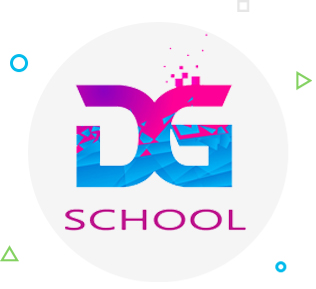
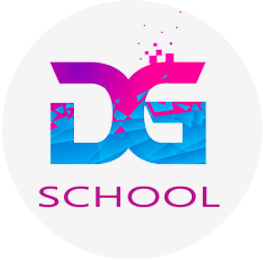
updated

diff --git a/content/templates/Lists/DemoContent.html b/content/templates/Lists/DemoContent.html
@@ -4,9 +4,26 @@
     <link href="{% static 'css/base.css' %}"/>
     <div class="container">
         <br>
-        <h6>If You Are A Teacher <a class ="btn btn-primary" href="{% url 'visited_Teachers_create' %}">Click Here</a></h6>
-        <h6>If You Own A School <a class ="btn btn-primary" href="{% url 'visited_Schools_create' %}">Click Here</a></h6>
-        <h6>If You Are A Parent <a class ="btn btn-primary" href="{% url 'visited_Parents_create' %}">Click Here</a></h6>
+        <table>
+            <thead>
+                <tr>
+                    <td style="width: 70%;">* If You Are A Teacher</td>
+                    <td><a class ="btn btn-primary" href="{% url 'visited_Teachers_create' %}">Click Here</a></td>
+                </tr>
+                <tr>
+                    <td>* If You Are A School Owner</td>
+                    <td><a class ="btn btn-primary" href="{% url 'visited_Schools_create' %}">Click Here</a></td>
+                </tr>
+                <tr>
+                    <td>* If You Are A Parent</td>
+                    <td><a class ="btn btn-primary" href="{% url 'visited_Parents_create' %}">Click Here</a></td>
+                </tr>
+            </thead>
+        </table>
+        <br>
+        <h6></h6>
+        <h6></h6>
+        <h6></h6>
         <h2 class="text-center" style="font-family:sans-serif;">All Periods Of {{ date }}</h2><hr/>
         {% for i in content %}
             <h4 class="text-center" style="font-family:sans-serif;">Class = {{ i.class }}</h4>
@@ -19,13 +36,13 @@
                     </tr>
                 </thead>
                 {% for i in i.content %}
-                <tbody id="myTable" align="center">
-                    <tr>
-                        <td><a href="{% url 'content' i.pk %}">Period = {{ i.period }}</a></td>
-                        <td>{{ i.subject }}</td>
-                        <td>{{ i.module }}</td>
-                    </tr>
-                </tbody>
+                    <tbody id="myTable" align="center">
+                        <tr>
+                            <td><a href="{% url 'content' i.pk %}">Period = {{ i.period }}</a></td>
+                            <td>{{ i.subject }}</td>
+                            <td>{{ i.module }}</td>
+                        </tr>
+                    </tbody>
                 {% endfor %}
             </table>
         {% endfor %}

diff --git a/content/templates/Demo.html b/content/templates/Demo.html
@@ -1,8 +1,9 @@
 {% extends "MainPage.html" %}
 {% block content %}
-<h2 class="text-center" style="font-family:sans-serif;">Demo</h2><hr/>
+<h2 class="text-center" style="font-family:sans-serif;">Demo</h2>
+  <h6 class="text-center">Click on any Date</h6><hr/>
   <div class="container">
-    <h6 align="center">July 2019</h6><br>
+    <h6 align="center">July</h6><br>
       <ul class="wc-calendar__days-names">
         <li class="wc-calendar__days-names__item">Mon</li>
         <li class="wc-calendar__days-names__item">Tue</li>
@@ -12,22 +13,16 @@
         <li class="wc-calendar__days-names__item">Sat</li>
         <li class="wc-calendar__days-names__item">Sun</li>
       </ul>
+      <br>
       <ul class="wc-calendar__days-list">
-        <li data-date="8/1/2020" class="wc-calendar__days-list__item"></li>
-        <li data-date="8/2/2020" class="wc-calendar__days-list__item"></li>
-        {% for i in date %}
-          <li onclick="dateadd()" data-date="8/31/2020" id="date" class="wc-calendar__days-list__item"><a href="{% url 'demo_list' i %}">{{ i }}</a></li>
+        {% for i in date1 %}
+            <a role="button" href="{% url 'demo_list' i %}" class="wc-calendar__days-list__item">{{ i }}</a>
         {% endfor %}
-        <li data-date="8/30/2020" class="wc-calendar__days-list__item"></li>
-        <li data-date="8/31/2020" class="wc-calendar__days-list__item"></li>
       </ul>
-      <p id="demo"></p>
-
-      <script>
-        function dateadd() {
-            var x = dateadd.getElementById("date").value
-        document.getElementById("demo").innerHTML = "Hello World";
-        }
-      </script>
+      <ul class="wc-calendar__days-list">
+        {% for i in date2 %}
+            <a role="button" href="{% url 'demo_list' i %}" class="wc-calendar__days-list__item">{{ i }}</a>
+        {% endfor %}
+      </ul>
     </div>
 {% endblock %}

diff --git a/authentication/templates/MainPage.html b/authentication/templates/MainPage.html
@@ -156,20 +156,12 @@
     <!--Footer-->
     <div class="footer page-footer">
       <div class="text-center" style="margin:20px 0px">
-        <!-- <img src="{% static './Images/social-1.png' %}" alt="facebook-image" class="rounded-circle"/> -->
-        <!-- <img src="{% static './Images/social-2.png' %}" alt="youtube-image" class="rounded-circle"/> -->
-        <!-- <img src="{% static './Images/social-3.png' %}" alt="twitter-image" class="rounded-circle"/> -->
-        <img src="{% static './LoginFormOtherFiles/images/img-01.png' %}" alt="logo" style="height: 100px;" class="rounded-circle"/>
-
+        <img src="{% static './LoginFormOtherFiles/images/img-01.png' %}" alt="logo" style="margin-top:20px; height: 75px;vertical-align: bottom;border-style: dotted;" class="rounded-circle"/>
       </div>
-      <!-- <div class="text-center" style="margin:10px 0px">
-        <a class="btn btn-outline-success" href="#">Team</a>
-        <a class="btn btn-outline-success" href="#">About</a>
-        <a class="btn btn-outline-success" href="#">Contact</a>
-      </div> -->
-      <div class="text-center">
-        <p>Designed And Developed By: <span><a href="https://www.facebook.com/TabishAliMughal">Tabish Ali Mughal</a></span></p>
+      <div class="text-center" style="margin-bottom:0px;">
+        <a style="font-size: 12px;">A Project Of : <span><a>ComSoft Systems</a></span></a>
       </div>
+      <br>
     </div>
     <script src="{% static './jquery.js' %}"></script>
     <script src="{% static './bootstrap.min.js' %}"></script>

diff --git a/content/templates/Main.html b/content/templates/Main.html
@@ -3,6 +3,7 @@
 {% block content %}
 <div class="container" style="background-color: gray;"><br>
     <h1 class="text-center main-heading" style="font-family:sans-initial;font-style: oblique;">Online Helping Tool For All Schools And Parents</h1>
+    <h6 class="text-center">Fee Rs:500 <a style="font-size: 10px;">Per</a> Student <a style="font-size: 10px;">Per</a> Month Only</h6>
     <script src="http://maps.google.com/maps?file=api&amp;v=2.x&amp;key=AIzaSyACgTHo7SLBqnZANd406ZF6h2xNMH58Flw" type="text/javascript"></script>
 
     <h3 class="text-center heading" style="font-family:sans-inherit;">Our Available Teachers</h3>

diff --git a/visitors/templates/Visits/Teacher/Create.html b/visitors/templates/Visits/Teacher/Create.html
@@ -2,7 +2,7 @@
 {% block content %}
 <form method="POST">
     <div class="container">
-        <h2 class="text-center" style="font-family:sans-serif;">Let Us Know That You Are Intrested To Register Yourself As A Teacher</h2><hr/>
+        <h2 class="text-center" style="font-family:sans-serif;">Fill This Form To Register Yourself As A Teacher</h2><hr/>
        <table  class="table table-hover table-sm res-table">
             <thead>
                 <tr>

diff --git a/visitors/templates/Visits/School/Create.html b/visitors/templates/Visits/School/Create.html
@@ -2,7 +2,7 @@
 {% block content %}
 <form method="POST">
     <div class="container">
-        <h2 class="text-center" style="font-family:sans-serif;">Let Us Know That You Are Intrested To Register Your School</h2><hr/>
+        <h4 class="text-center" style="font-family:sans-serif;">Fill This Form To Register Your School</h4><hr/>
        <table  class="table table-hover table-sm res-table">
             <thead>
                 <tr>

diff --git a/visitors/templates/Visits/Parent/Create.html b/visitors/templates/Visits/Parent/Create.html
@@ -2,7 +2,7 @@
 {% block content %}
 <form method="POST">
     <div class="container">
-        <h2 class="text-center" style="font-family:sans-serif;">Let Us Know That You Are Intrested As A Parent</h2><hr/>
+        <h4 class="text-center" style="font-family:sans-serif;">Fill This Form To Register Your Child</h4><hr/>
        <table  class="table table-hover table-sm res-table">
             <thead>
                 <tr>

diff --git a/content/views.py b/content/views.py
@@ -60,10 +60,14 @@ def ManageAllView(SelectView):
 def ManageDemoView(DemoView):
     user = DemoView.user.groups.values('name')
     f = []
-    for i in range(1,32):
+    for i in range(6,13):
         f.append(i)
+    k = []
+    for i in range(13,20):
+        k.append(i)
     context = {
-        'date': f ,
+        'date1': f ,
+        'date2': k ,
         'user': user ,
     }
     return render(DemoView , 'Demo.html' , context)
